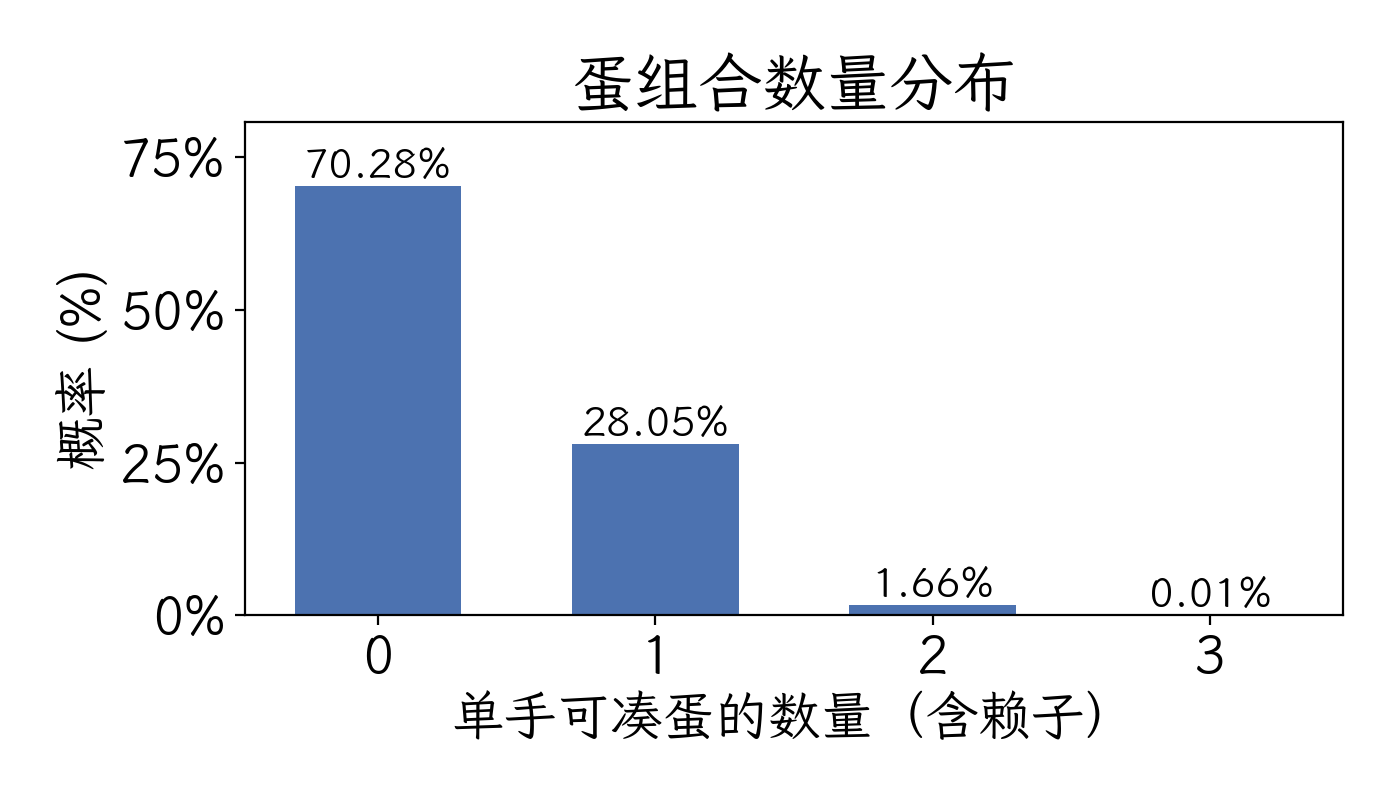
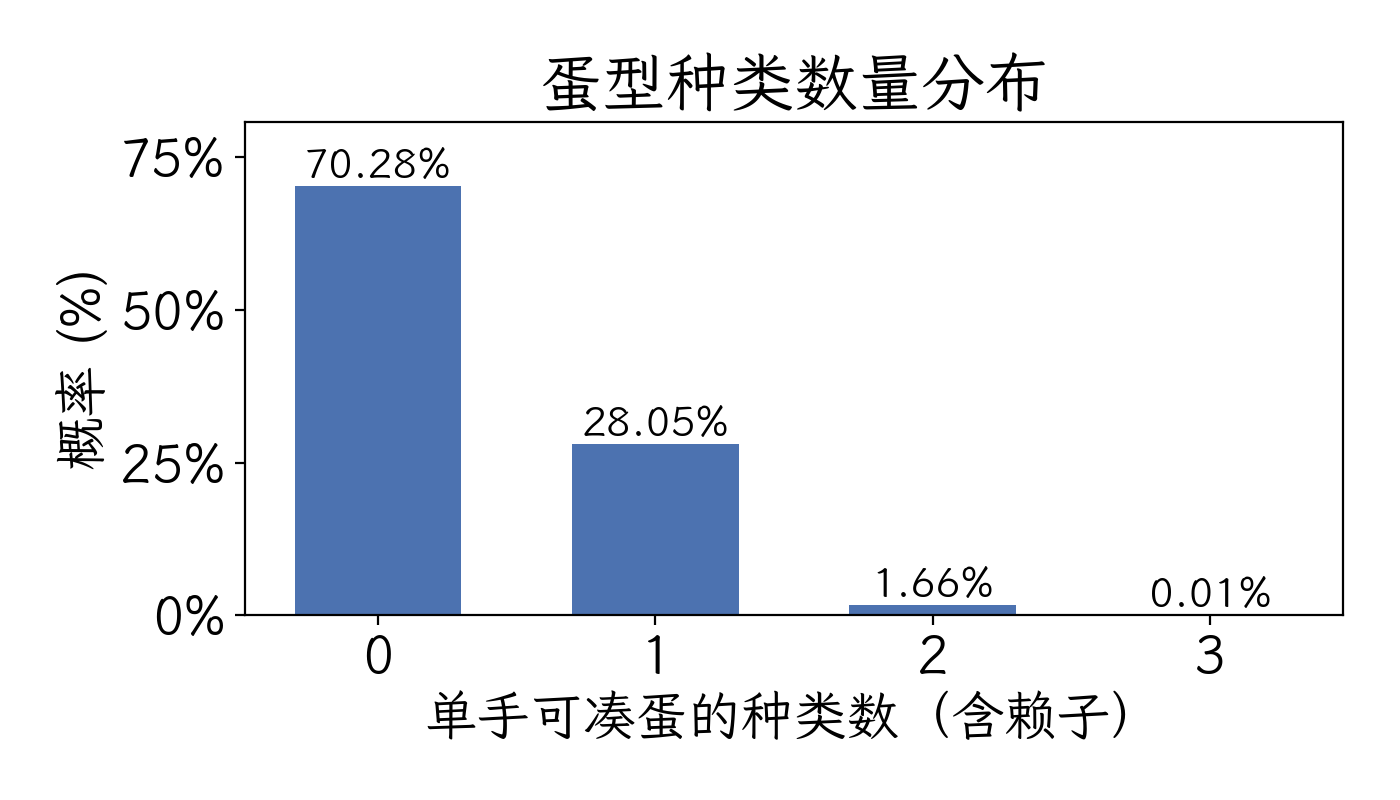
fix

Changed region(s): [[0.3071, 0.8438, 0.8293, 0.9375], [0.3686, 0.0625, 0.7679, 0.1562]]

diff --git a/cc_majong/src/cc_majong/plotting.py b/cc_majong/src/cc_majong/plotting.py
@@ -12,7 +12,7 @@ import pandas as pd
 from .eggs import EGG_TYPES
 from .metrics import SummaryData
 from .multiplicity import MultiplicityStats
-from .next_draw import MultiWaitStats, NextDrawStats
+from .next_draw import MultiWaitStats, NextDrawStats, WaitLineStats
 
 PROJECT_ROOT = Path(__file__).resolve().parents[2]
 FONT_CHOICES = [
@@ -91,13 +91,13 @@ def plot_combo_distribution(summary: SummaryData, output_path: Path) -> None:
 
     fig, ax = plt.subplots(figsize=(7, 4), dpi=FIGURE_DPI)
     ax.bar(probs.index, probs.values, width=0.6, color="#4C72B0")
-    ax.set_xlabel("单手可凑蛋的数量（含赖子）")
+    ax.set_xlabel("单手可凑蛋的种类数（含赖子）")
     ax.set_ylabel("概率 (%)")
     ax.set_xticks(probs.index)
     for x, y in zip(probs.index, probs.values):
         ax.text(x, y + 0.002, f"{y:.2%}", ha="center", va="bottom", fontsize=15)
     ax.set_ylim(0, max(probs.values) * 1.15)
-    ax.set_title("蛋组合数量分布")
+    ax.set_title("蛋型种类数量分布")
     ax.yaxis.set_major_formatter(lambda val, _: f"{val*100:.0f}%")
 
     _ensure_parent(output_path)
@@ -209,7 +209,7 @@ def plot_type_count_curves(stats: MultiplicityStats, output_path: Path) -> None:
         [[stats.per_type_distribution[egg.key].get(count, 0.0) for count in counts] for egg in EGG_TYPES]
     )
 
-    fig, ax = plt.subplots(figsize=(12, 6), dpi=FIGURE_DPI)
+    fig, ax = plt.subplots(figsize=(8, 4), dpi=FIGURE_DPI)
     cmap = plt.cm.Blues
     im = ax.imshow(data, cmap=cmap)
     ax.set_aspect('auto')
@@ -295,6 +295,44 @@ def plot_multi_wait_summary(stats: MultiWaitStats, output_path: Path) -> None:
     ax.set_ylim(0, ymax * 1.2)
     for bar, val in zip(bars, values):
         ax.text(bar.get_x() + bar.get_width() / 2, bar.get_height() + 0.005, f"{val:.1%}", ha="center", va="bottom", fontsize=14)
+
+    _ensure_parent(output_path)
+    fig.tight_layout()
+    fig.savefig(output_path)
+    plt.close(fig)
+
+
+def plot_wait_line_counts(stats: WaitLineStats, output_path: Path) -> None:
+    counts = sorted(k for k in stats.counts_all.keys() if k > 0)
+    probs = [stats.prob_all(k) for k in counts]
+
+    fig, ax = plt.subplots(figsize=(8, 4.5), dpi=FIGURE_DPI)
+    ax.bar(counts, probs, color="#82b1ff")
+    ax.set_xlabel("差一张的蛋型数量")
+    ax.set_ylabel("概率 (%)")
+    ax.set_title("全部起手：差一张蛋型数量分布")
+    ax.yaxis.set_major_formatter(lambda val, _: f"{val*100:.1f}%")
+    for x, y in zip(counts, probs):
+        ax.text(x, y + 0.002, f"{y*100:.2f}%", ha="center", va="bottom", fontsize=13)
+
+    _ensure_parent(output_path)
+    fig.tight_layout()
+    fig.savefig(output_path)
+    plt.close(fig)
+
+
+def plot_wait_line_subset(stats: WaitLineStats, output_path: Path) -> None:
+    counts = sorted(k for k in stats.counts_subset.keys() if k > 0)
+    probs = [stats.prob_subset(k) for k in counts]
+
+    fig, ax = plt.subplots(figsize=(8, 4.5), dpi=FIGURE_DPI)
+    ax.bar(counts, probs, color="#4dd0e1")
+    ax.set_xlabel("差一张的蛋型数量")
+    ax.set_ylabel("占差一张人群比重 (%)")
+    ax.set_title("差一张人群：蛋型待牌数量分布")
+    ax.yaxis.set_major_formatter(lambda val, _: f"{val*100:.1f}%")
+    for x, y in zip(counts, probs):
+        ax.text(x, y + 0.002, f"{y*100:.2f}%", ha="center", va="bottom", fontsize=13)
 
     _ensure_parent(output_path)
     fig.tight_layout()

diff --git a/cc_majong/src/cc_majong/next_draw.py b/cc_majong/src/cc_majong/next_draw.py
@@ -302,3 +302,79 @@ def save_multi_wait_stats(stats: MultiWaitStats, path: Path) -> None:
 
 def load_multi_wait_stats(path: Path) -> MultiWaitStats:
     return MultiWaitStats.from_dict(json.loads(path.read_text(encoding="utf-8")))
+
+
+@dataclass
+class WaitLineStats:
+    counts_all: Dict[int, int]
+    counts_subset: Dict[int, int]
+    total: int
+    subset_total: int
+
+    def to_dict(self) -> Dict[str, object]:
+        prob_all = {str(k): (self.counts_all.get(k, 0) / self.total) for k in sorted(self.counts_all)}
+        prob_subset = {
+            str(k): (self.counts_subset.get(k, 0) / self.subset_total) if self.subset_total else 0.0
+            for k in sorted(self.counts_subset)
+        }
+        return {
+            "counts_all": {str(k): v for k, v in sorted(self.counts_all.items())},
+            "prob_all": prob_all,
+            "counts_subset": {str(k): v for k, v in sorted(self.counts_subset.items())},
+            "prob_subset": prob_subset,
+            "total": self.total,
+            "subset_total": self.subset_total,
+        }
+
+    @classmethod
+    def from_dict(cls, data: Dict[str, object]) -> "WaitLineStats":
+        counts_all = {int(k): int(v) for k, v in data["counts_all"].items()}
+        counts_subset = {int(k): int(v) for k, v in data["counts_subset"].items()}
+        return cls(
+            counts_all=counts_all,
+            counts_subset=counts_subset,
+            total=int(data["total"]),
+            subset_total=int(data["subset_total"]),
+        )
+
+    def prob_all(self, k: int) -> float:
+        return self.counts_all.get(k, 0) / self.total if self.total else 0.0
+
+    def prob_subset(self, k: int) -> float:
+        return self.counts_subset.get(k, 0) / self.subset_total if self.subset_total else 0.0
+
+
+def compute_wait_line_stats(samples: HandSamples) -> WaitLineStats:
+    counts_all: Counter[int] = Counter()
+    counts_subset: Counter[int] = Counter()
+    total = samples.array.shape[0]
+    subset_total = 0
+
+    for hand in samples.array:
+        base = Counter(ID_TO_TILE[hand[:13]])
+        if any(type_feasible(base, egg, allow_laizi=True)[0] for egg in EGG_TYPES):
+            continue
+        waiting = 0
+        for egg in EGG_TYPES:
+            pure_tiles, laizi_tiles = _winning_tiles(base, egg.key)
+            if pure_tiles or laizi_tiles:
+                waiting += 1
+        counts_all[waiting] += 1
+        if waiting > 0:
+            counts_subset[waiting] += 1
+            subset_total += 1
+
+    return WaitLineStats(
+        counts_all=dict(counts_all),
+        counts_subset=dict(counts_subset),
+        total=total,
+        subset_total=subset_total,
+    )
+
+
+def save_wait_line_stats(stats: WaitLineStats, path: Path) -> None:
+    path.write_text(json.dumps(stats.to_dict(), ensure_ascii=False, indent=2), encoding="utf-8")
+
+
+def load_wait_line_stats(path: Path) -> WaitLineStats:
+    return WaitLineStats.from_dict(json.loads(path.read_text(encoding="utf-8")))

diff --git a/cc_majong/output/report.md b/cc_majong/output/report.md
@@ -72,13 +72,17 @@
 
 
 ## 五、不是庄家的“差一张”胜率
-在全部起手（含有蛋与无蛋）里，约 **51.04%** 属于“13 张尚未成蛋，但至少有一条线只差一张就能亮蛋”的状态；其余要么已经有蛋，要么至少差两张。下文所有“差一张”概率都只在这 51.04% 的手牌范围内统计。
+在全部起手（含有蛋与无蛋）里，约 **51.04% 属于“13 张尚未成蛋，但至少有一条线只差一张就能亮蛋”的状态**；其余要么已经有蛋，要么至少差两张。下文所有“差一张”概率都只在这 51.04% 的手牌范围内统计。
 
-我们基于同一批 100,000 副牌谱做了两套统计：
-- **理论法**：把 13 张起手视作当前手牌，余下 123 张未知牌等概率，统计哪些牌能一摸成蛋，相当于问“差一张的计划价值”。
-- **实测法**：直接拿样本中的第 14 张当作下一摸，只有当这张牌真实补齐蛋时才算命中，等价于问“按现在发牌顺序我能不能马上成蛋”。
+![差一张蛋线数量分布](figures/wait_line_counts.png)
 
-两种算法都会先剔除已经成蛋的手牌，只统计“差一张”的情况。这样既能给出理想化的概率、也能反映真实发牌节奏。继续沿用同一批 100,000 副牌谱，每副只取前 13 张视作“轮到我之前”的状态，再把真实的第 14 张当作下一摸。
+> 横坐标意思是：有多少种蛋型都是差一张，摸一张就可能亮蛋的。
+
+继续沿用同一批 100,000 副牌谱，每副只取前 13 张视作“轮到我之前”的状态：
+- **理论法：把 13 张起手视作当前手牌，余下 123 张未知牌等概率**，统计哪些牌能一摸成蛋，相当于问“差一张的计划价值”。
+- **实测法：直接拿样本中的第 14 张当作下一张来摸**，只有当这张牌真实补齐蛋时才算命中，等价于问“按现在发牌顺序我能不能马上成蛋”。
+
+两种算法都会先剔除已经成蛋的手牌，只统计“差一张”的情况。这样既能给出理想化的概率、也能反映真实发牌节奏。
 
 ### 1. 单线差一张：再摸一张能否开蛋？
 
@@ -100,10 +104,8 @@
 ### 2. 多线差一张：双线及以上待牌
 当起手同时差 ≥2 种蛋时，下一摸命中率直接翻倍：
 
-- **27.41%** 的 13 张起手满足“同时差两条线”且未提前亮蛋。
+- **27.41%** 的 13 张起手（约占前述 51.04% “差一张”人群的二分之一）满足“同时差两条线”且未提前亮蛋，剩余 **23.63%** 则是“只有一条线差一张”的情况。
 - 这部分手牌下一摸的理论命中率 **13.41%**，实测 **13.62%**，几乎是单线的两倍。
-
-![多线待牌占比与命中率](figures/multi_wait_summary.png)
 
 最常见的多线组合与命中率如下（赖子贡献列清楚后续调度方向）：
 
@@ -129,59 +131,27 @@
 - **纯净补牌依旧重要**：即便赖子强势，诸如“九+幺”这样的组合仍有三分之一靠纯摸完成，保留原装字牌对子依旧提高成功率。
 
 ## 六、文件清单与复现方式
+仓库地址：https://github.com/gxf1212/Probability_of_games
+
 - `cc_majong/data/hands.parquet`：10 万副 14 张牌谱。
 - `cc_majong/output/results.parquet`：逐副判定结果。
 - `cc_majong/output/summary.json`：总体概率、组合分布与收敛曲线数据。
 - `cc_majong/data/egg_multiplicity.json`：蛋数量（含重复）与各蛋型叠加统计。
 - `cc_majong/data/next_draw.json`、`cc_majong/data/next_draw_empirical.json`：单线差一张的理论 / 实测概率。
 - `cc_majong/data/next_draw_combos.json`、`cc_majong/data/next_draw_multiwait.json`：多线待牌的组合命中率及整体频率。
+- `cc_majong/data/next_draw_wait_counts.json`：差一张人群的蛋型数量分布。
 - `cc_majong/output/figures/*.png`：文中引用的全部中文图表。
 
-复现步骤：
+最简复现（需 Python 3.11+ 与 `pip`）：
 ```bash
+git clone https://github.com/gxf1212/Probability_of_games.git
+cd Probability_of_games
+python -m venv .venv && source .venv/bin/activate
+pip install -r cc_majong/requirements.txt
 PYTHONPATH=cc_majong/src python -m cc_majong.pipeline --seed 20251204
-PYTHONPATH=cc_majong/src python - <<'PY'
-from pathlib import Path
-from cc_majong.samples import load_samples
-from cc_majong.next_draw import (
-    compute_next_draw_stats,
-    compute_empirical_draw_stats,
-    compute_combo_stats,
-    compute_multi_wait_stats,
-    save_next_draw_stats,
-    save_combo_stats,
-    save_multi_wait_stats,
-)
-from cc_majong.multiplicity import compute_multiplicity_stats, save_multiplicity_stats
-from cc_majong.plotting import (
-    plot_next_draw_bars,
-    plot_combo_waits,
-    plot_multi_wait_summary,
-    plot_multiplicity_distribution,
-    plot_type_count_curves,
-)
-
-samples = load_samples(Path('cc_majong/data/hands.parquet'))
-theory = compute_next_draw_stats(samples)
-empirical = compute_empirical_draw_stats(samples)
-save_next_draw_stats(theory, Path('cc_majong/data/next_draw.json'))
-save_next_draw_stats(empirical, Path('cc_majong/data/next_draw_empirical.json'))
-combos = compute_combo_stats(samples, min_size=2)
-save_combo_stats(combos, Path('cc_majong/data/next_draw_combos.json'))
-multi_wait = compute_multi_wait_stats(samples, min_waits=2)
-save_multi_wait_stats(multi_wait, Path('cc_majong/data/next_draw_multiwait.json'))
-mult_stats = compute_multiplicity_stats(samples)
-save_multiplicity_stats(mult_stats, Path('cc_majong/data/egg_multiplicity.json'))
-
-fig_dir = Path('cc_majong/output/figures')
-fig_dir.mkdir(parents=True, exist_ok=True)
-plot_next_draw_bars(theory, empirical, fig_dir / 'next_draw.png')
-plot_combo_waits(combos, fig_dir / 'multi_wait_combos.png', top_n=6)
-plot_multi_wait_summary(multi_wait, fig_dir / 'multi_wait_summary.png')
-plot_multiplicity_distribution(mult_stats, fig_dir / 'egg_multiplicity.png')
-plot_type_count_curves(mult_stats, fig_dir / 'egg_type_counts.png')
-PY
+PYTHONPATH=cc_majong/src python -m cc_majong.refresh  # 重新计算差一张 & 绘图
 ```
+`cc_majong.pipeline` 负责抽样、判定、生成 `summary.json / results.parquet`；`cc_majong.refresh` 则一次性写出所有 `next_draw*.json`、`egg_multiplicity.json`，并刷新 `output/figures` 与 `output/report.md`。
 
 ## 七、参考资料
 - 波克游戏官网《长春麻将玩法说明》（纸牌房规整理）。

diff --git a/README.md b/README.md
@@ -60,9 +60,11 @@ from cc_majong.next_draw import (
     compute_empirical_draw_stats,
     compute_combo_stats,
     compute_multi_wait_stats,
+    compute_wait_line_stats,
     save_next_draw_stats,
     save_combo_stats,
     save_multi_wait_stats,
+    save_wait_line_stats,
 )
 from cc_majong.multiplicity import (
     compute_multiplicity_stats,
@@ -71,9 +73,10 @@ from cc_majong.multiplicity import (
 from cc_majong.plotting import (
     plot_next_draw_bars,
     plot_combo_waits,
-    plot_multi_wait_summary,
     plot_multiplicity_distribution,
     plot_type_count_curves,
+    plot_wait_line_counts,
+    plot_wait_line_subset,
 )
 
 base = Path('data')
@@ -90,14 +93,17 @@ combos = compute_combo_stats(samples, min_size=2)
 save_combo_stats(combos, base / 'next_draw_combos.json')
 multi_wait = compute_multi_wait_stats(samples, min_waits=2)
 save_multi_wait_stats(multi_wait, base / 'next_draw_multiwait.json')
+wait_lines = compute_wait_line_stats(samples)
+save_wait_line_stats(wait_lines, base / 'next_draw_wait_counts.json')
 mult_stats = compute_multiplicity_stats(samples)
 save_multiplicity_stats(mult_stats, base / 'egg_multiplicity.json')
 
 plot_next_draw_bars(theory, empirical, fig_dir / 'next_draw.png')
 plot_combo_waits(combos, fig_dir / 'multi_wait_combos.png', top_n=6)
-plot_multi_wait_summary(multi_wait, fig_dir / 'multi_wait_summary.png')
 plot_multiplicity_distribution(mult_stats, fig_dir / 'egg_multiplicity.png')
 plot_type_count_curves(mult_stats, fig_dir / 'egg_type_counts.png')
+plot_wait_line_counts(wait_lines, fig_dir / 'wait_line_counts.png')
+plot_wait_line_subset(wait_lines, fig_dir / 'wait_line_subset.png')
 ```
 
 ### dice
